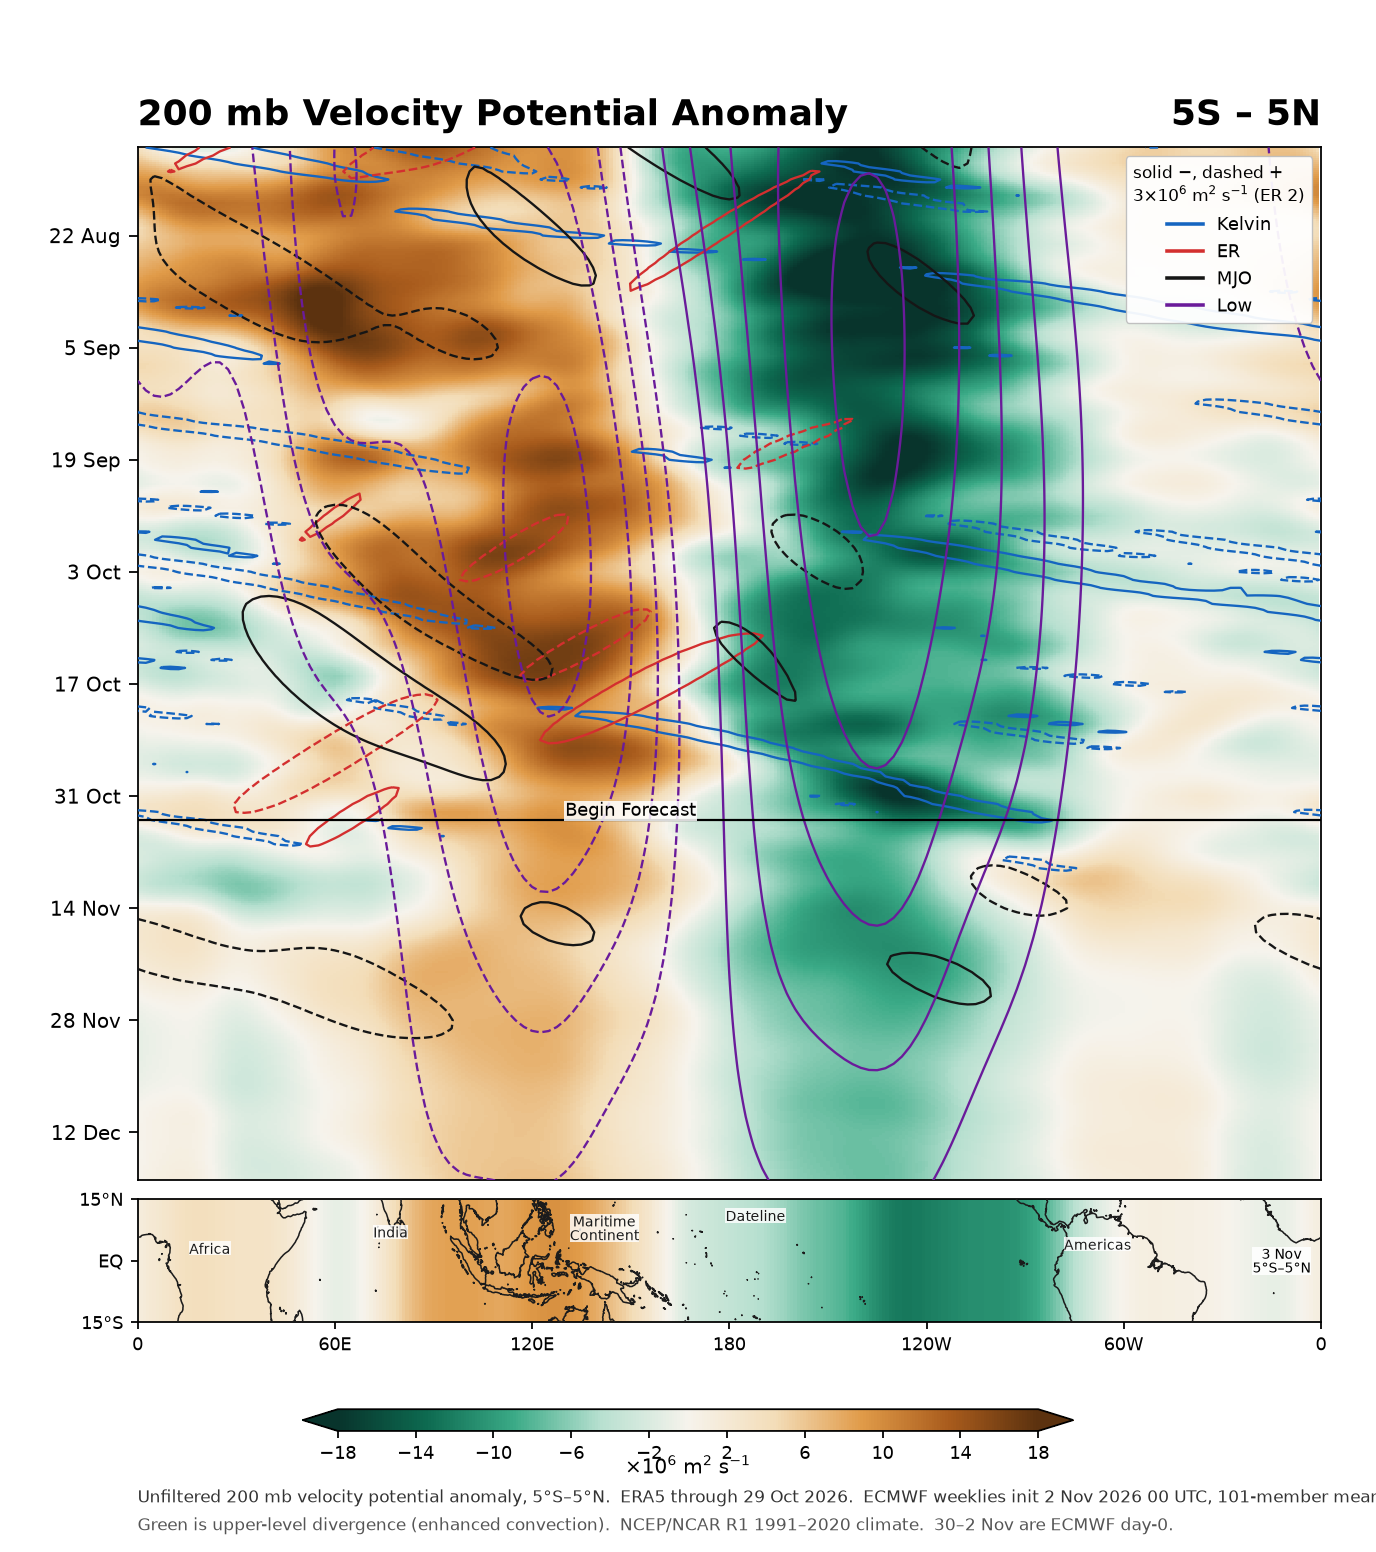
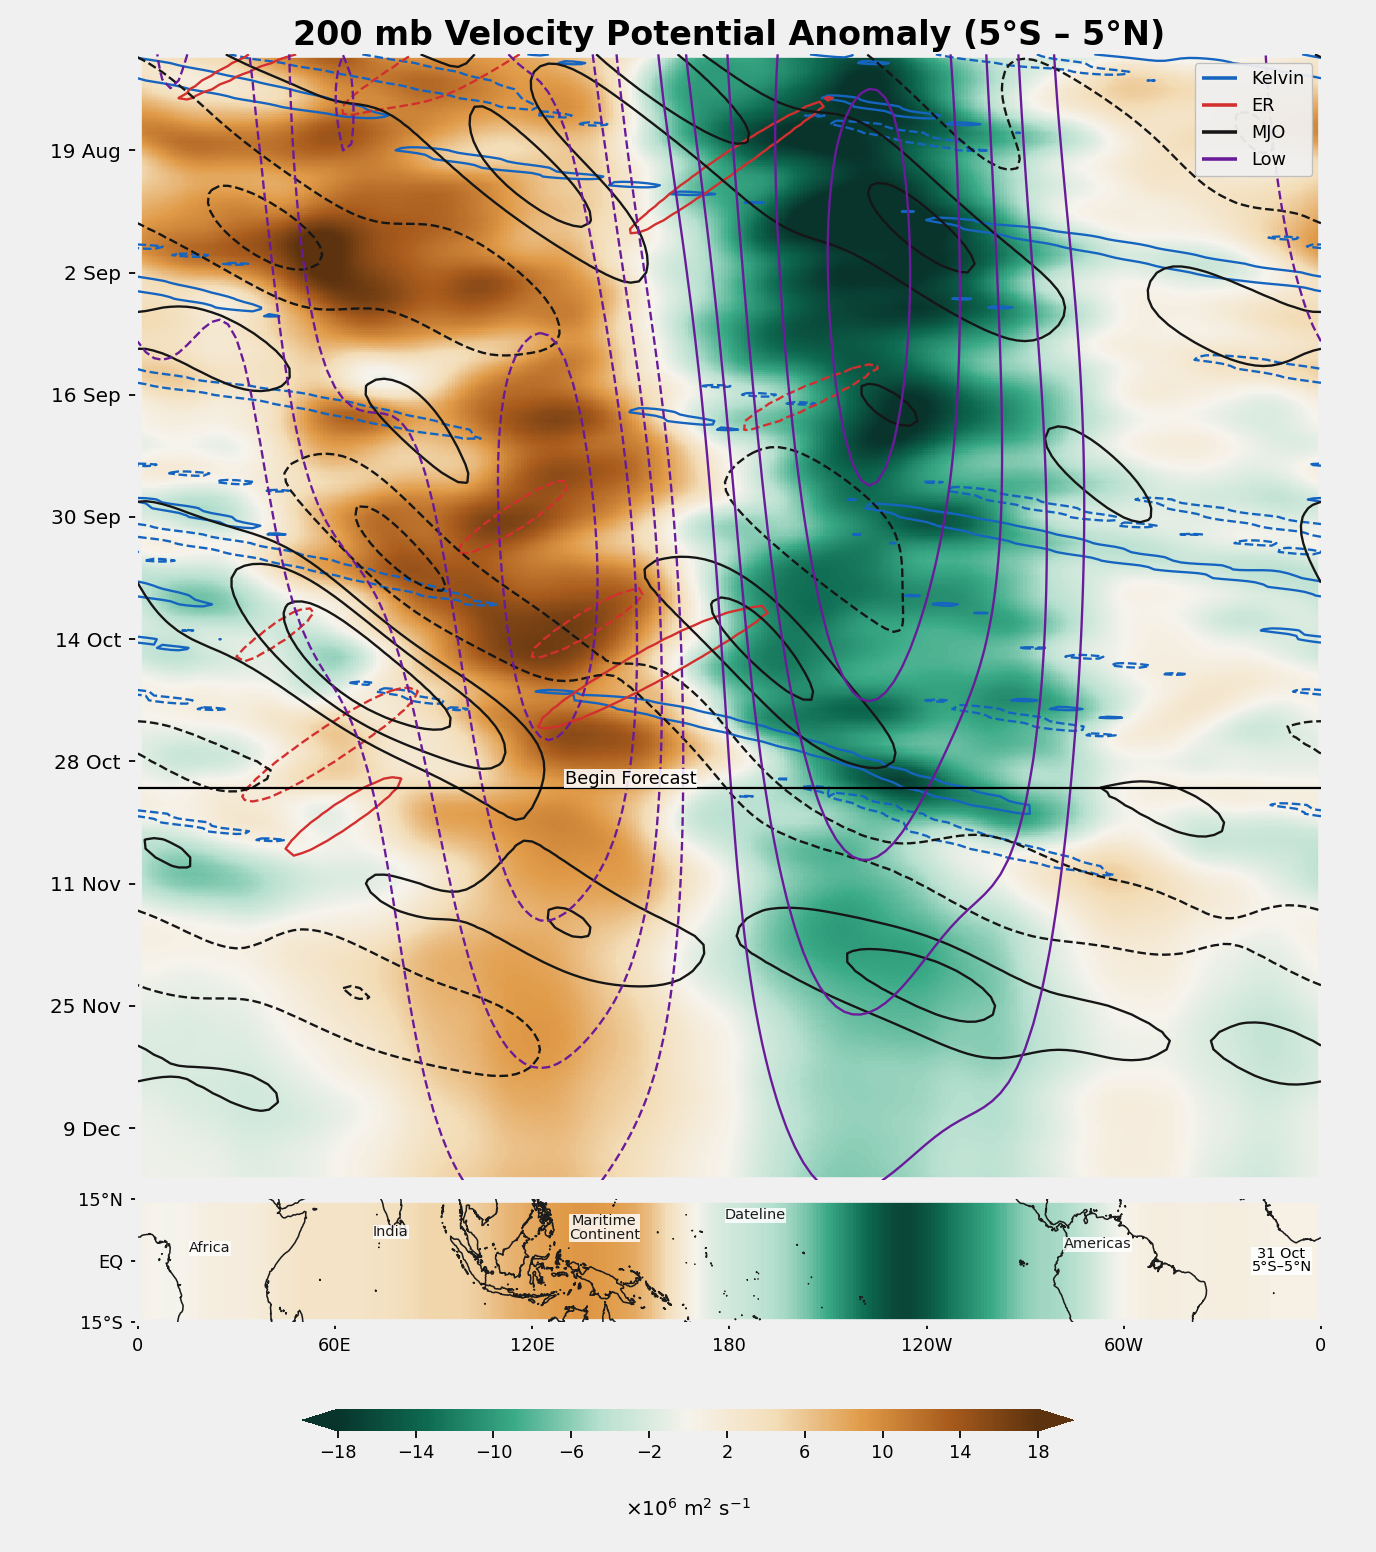
Update the tropical forcing chart style and contour notes.
Move solid/dashed and interval details into How to read this chart.

diff --git a/tropical_forcing/index.html b/tropical_forcing/index.html
@@ -107,11 +107,11 @@
     <div class="frame">
       <img id="chart" alt="200 mb velocity potential anomaly from 5°S to 5°N, ERA5 and ECMWF weeklies" src="vp200_ecmwf_extended.png">
     </div>
-    <p class="hint">Time increases downward. Solid contours are negative (rising air); dashed contours are positive (sinking air). Interval 3×10<sup>6</sup> m<sup>2</sup> s<sup>−1</sup> (ER 2×10<sup>6</sup>). The map under the Hovmöller is the 5°S–5°N field on the first forecast day, drawn across 15°S–15°N so the landmasses show where that anomaly sits.</p>
+    <p class="hint">Time increases downward. The map under the Hovmöller is the 5°S–5°N field on the first forecast day, drawn across 15°S–15°N so the landmasses show where that anomaly sits.</p>
 
     <div class="key">
       <h2>How to read this chart</h2>
-      <p>The shading is the unfiltered 200 mb velocity potential anomaly. Contours are the filtered Kelvin (blue), equatorial Rossby (red), MJO (black), and low-frequency (purple) pieces. The method is Wheeler and Weickmann (2001), with the forecast appended to the observations instead of climatology.</p>
+      <p>The shading is the unfiltered 200 mb velocity potential anomaly. Contours are the filtered Kelvin (blue), equatorial Rossby (red), MJO (black), and low-frequency (purple) pieces. Solid contours are negative (rising air); dashed contours are positive (sinking air). The contour interval is 3×10<sup>6</sup> m<sup>2</sup> s<sup>−1</sup> for Kelvin and low frequency, 2×10<sup>6</sup> for equatorial Rossby, and for the MJO 1.5×10<sup>6</sup> on rising (negative) and 2×10<sup>6</sup> on sinking (positive). The method is Wheeler and Weickmann (2001), with the forecast appended to the observations instead of climatology.</p>
       <p>The equatorial map is that same 5°S–5°N anomaly at the start of the forecast, the current state of the velocity potential field, spread across 15°S–15°N only so the coastlines can place it. It is not a separate latitude-by-latitude calculation.</p>
       <p>ERA5 carries the analysis. The ECMWF weeklies are published about two days after they run, so the forecast can start ahead of the latest ERA5 day. Those intervening days are each run’s own ensemble-mean analysis (lead 0). The climate is NCEP/NCAR Reanalysis 1, 1991–2020.</p>
     </div>
